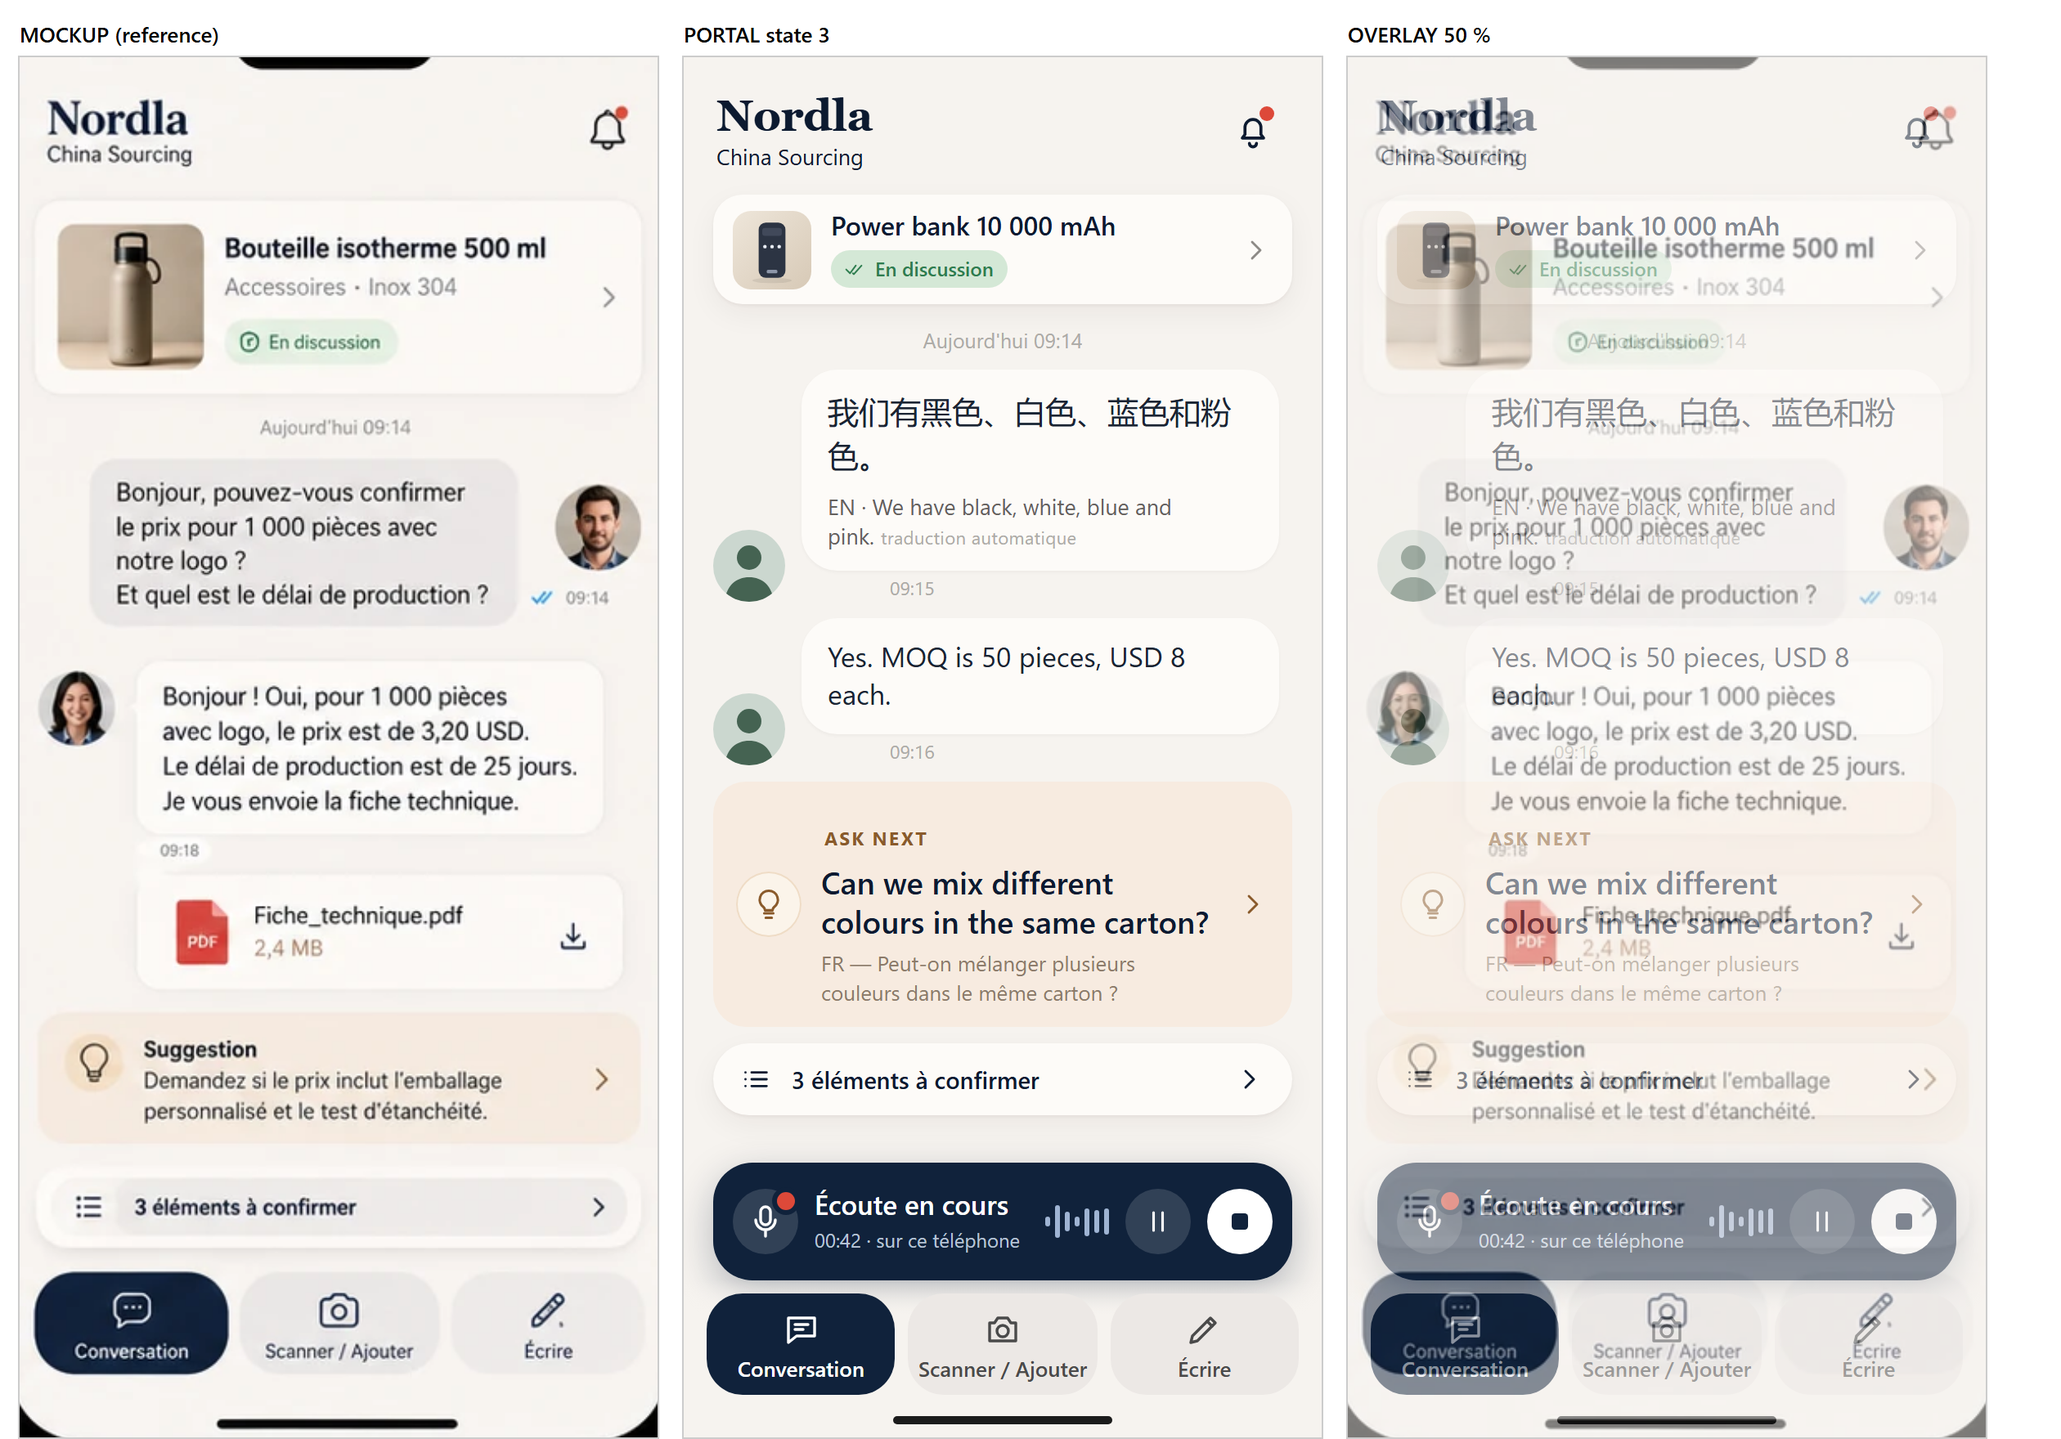
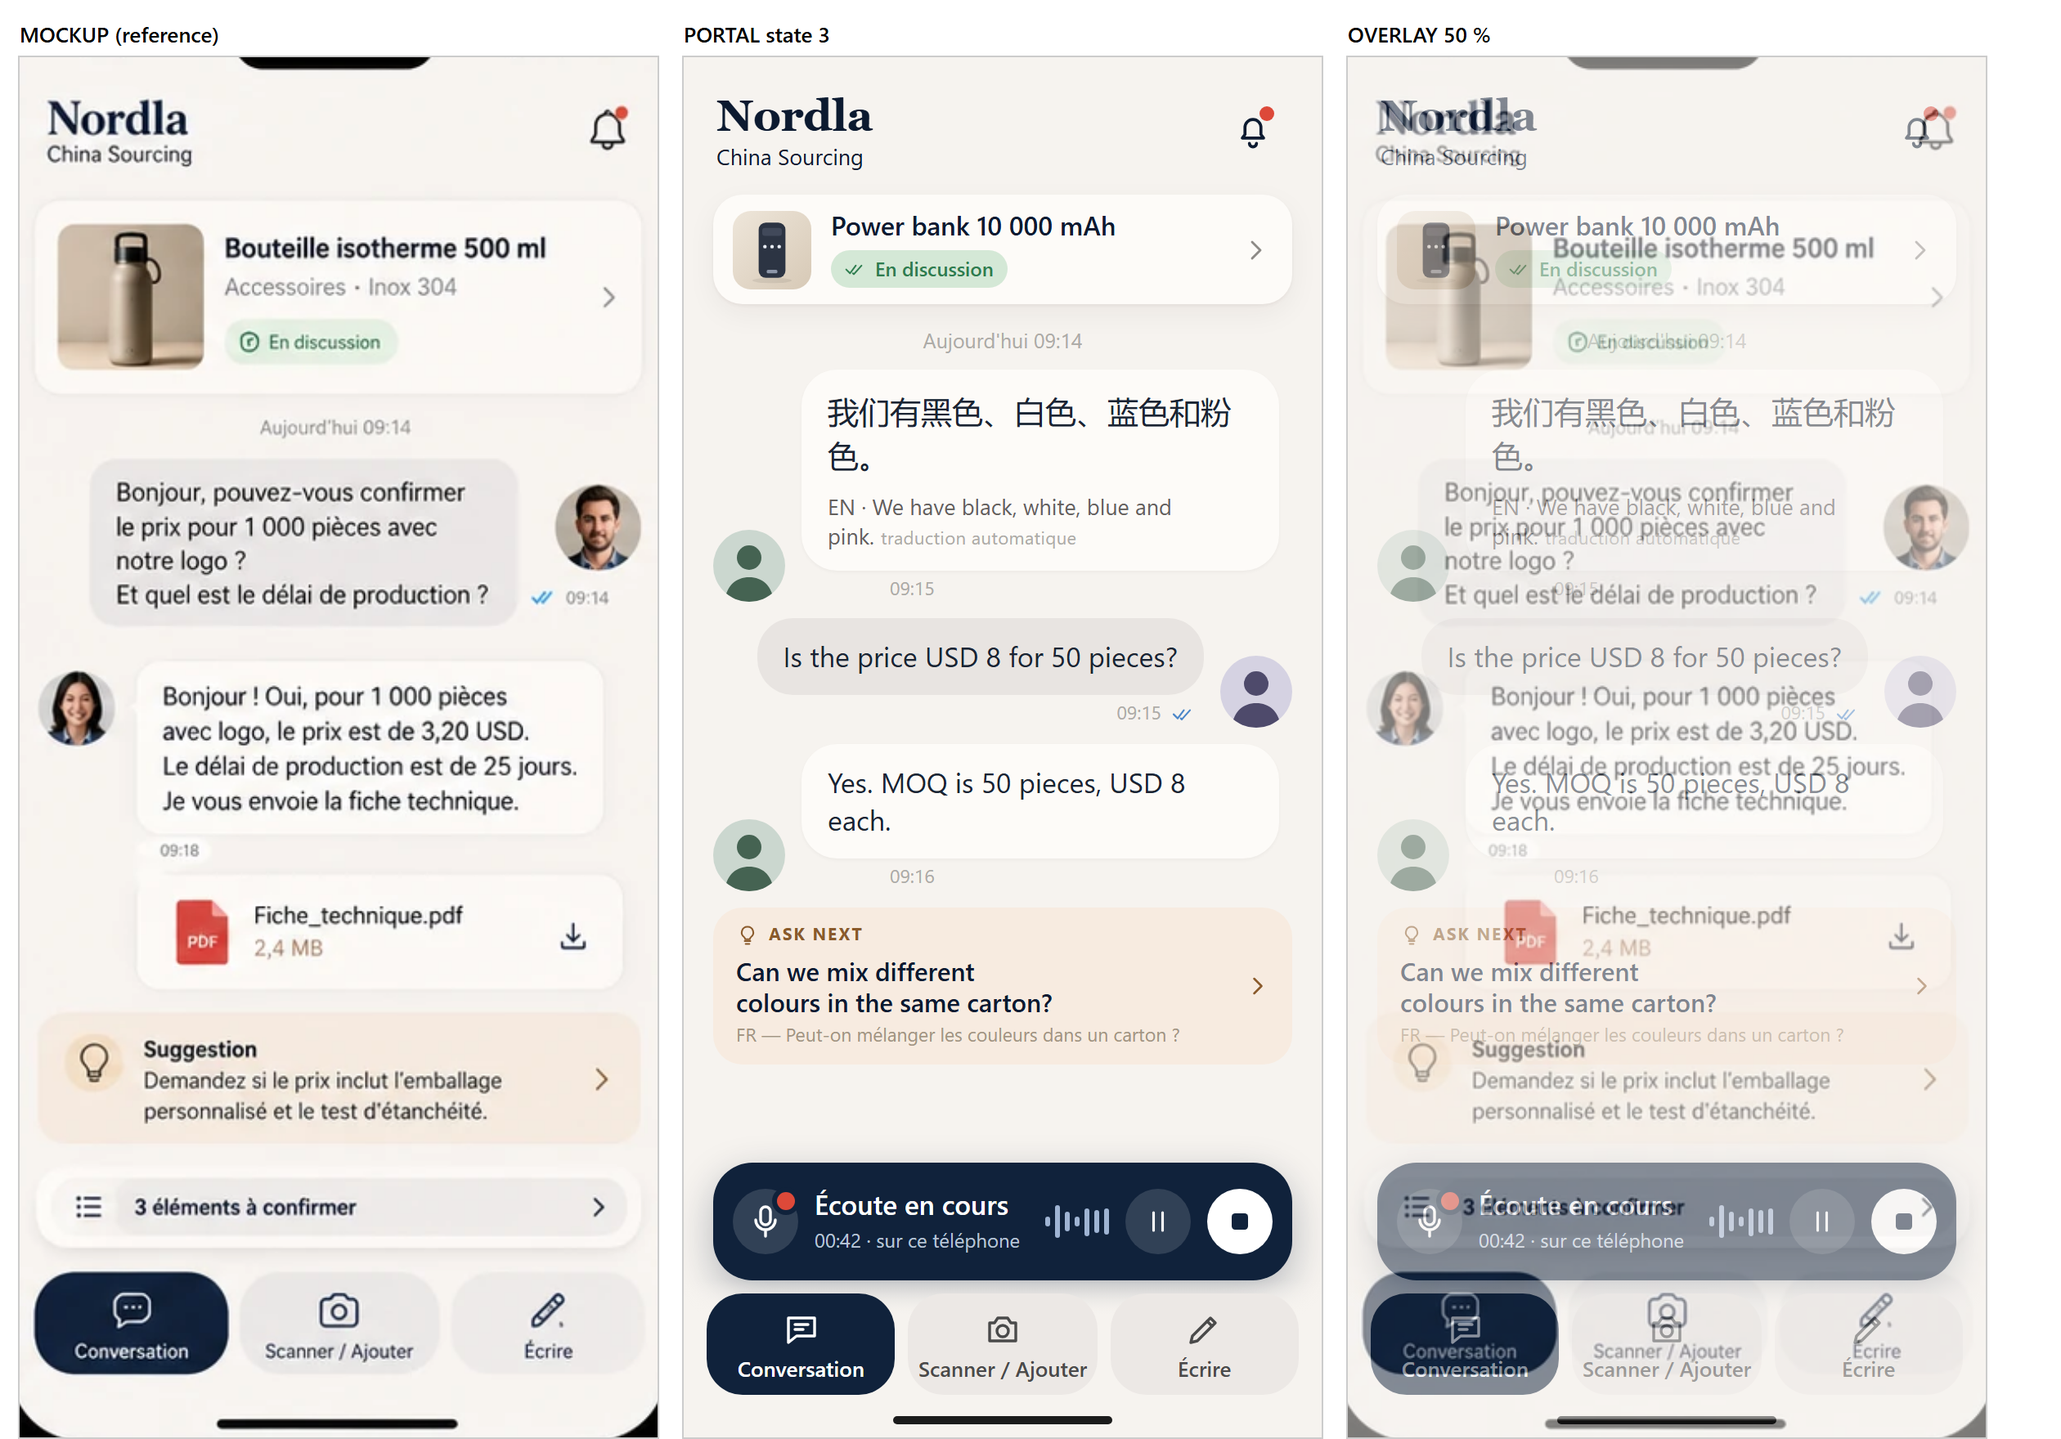
docs(sourcing): fidelity portal V2 (discreet ASK NEXT, no confirmation row in the flow, recomposed end of conversation, richer product card)
Static mock-up only; nothing wired.

diff --git a/docs/fidelity-portal/portal.js b/docs/fidelity-portal/portal.js
@@ -17,30 +17,31 @@ const OK = '<span class="gl ok">' + ICON_CHECK + '</span>', CL = '<span class="g
 const wave = (n = 7) => `<div class="wave" aria-hidden="true">${Array.from({ length: n }, (_, i) => `<s style="height:${6 + Math.round(Math.abs(Math.sin(i * 1.7) + Math.sin(i * .6)) * 9)}px"></s>`).join('')}</div>`;
 
 const header = () => `<div class="hd"><div class="brand">Nordla<small>China Sourcing</small></div><button class="bell" aria-label="Alertes">${ICON.bell}<i></i></button></div>`;
-const product = (o = {}) => `<div class="prod ${o.mini ? 'mini' : ''}"><div class="ph">${bottle}</div><div class="t"><h1>Power bank 10 000 mAh</h1>${o.mini ? '' : '<p class="s">Accessoires électroniques</p>'}<span class="pill ${o.state === 'Nouveau' ? 'new' : ''}">${o.state === 'Nouveau' ? '' : ICON.check.replace('15', '14')}${o.state}</span></div>${ICON.chev}</div>`;
+const product = (o = {}) => `<div class="prod ${o.mini ? 'mini' : ''} ${o.hero ? 'hero' : ''}"><div class="ph">${bottle}</div><div class="t"><h1>Power bank 10&nbsp;000&nbsp;mAh</h1>${o.mini ? '' : '<p class="s">Accessoires électroniques</p>'}<span class="pill ${o.state === 'Nouveau' ? 'new' : ''}">${o.state === 'Nouveau' ? '' : ICON.check.replace('15', '14')}${o.state}</span></div>${ICON.chev}</div>`;
 const nav = () => `<div class="nav"><button class="on">${ICON.chat}Conversation</button><button>${ICON.camera}Scanner / Ajouter</button><button>${ICON.pencil}Écrire</button></div><div class="hi"></div>`;
 const sup = (inner, time, extra = '') => `<div class="row sup"><div class="av">${AV_SUP}</div><div class="stack"><div class="b ${extra}">${inner}</div><div class="meta">${time}</div></div></div>`;
 const me = (inner, time) => `<div class="row me"><div class="stack"><div class="b">${inner}</div><div class="meta">${time} ${ICON.check}</div></div><div class="av">${AV_ME}</div></div>`;
 const conf = (n) => `<div class="conf">${ICON.list}<span>${n} éléments à confirmer</span>${ICON.chev}</div>`;
 const dock = () => `<div class="dock"><div class="rec">${ICON.mic.replace('26', '24')}<i></i></div><div class="t"><b>Écoute en cours</b><small>00:42 · sur ce téléphone</small></div>${wave()}<button class="dk" aria-label="Pause">${ICON.pause}</button><button class="dk stop" aria-label="Terminer">${ICON.stop}</button></div>`;
-const suggest = () => `<div class="sug"><div class="bulb">${ICON.bulb}</div><div style="flex:1;min-width:0"><div class="k">ASK NEXT</div><p class="en">Can we mix different colours in the same carton?</p><p class="fr">FR — Peut-on mélanger plusieurs couleurs dans le même carton ?</p></div>${ICON.chev}</div>`;
+const suggest = () => `<div class="sug"><div class="sg"><div class="k"><span class="bl">${ICON.bulb}</span>ASK NEXT</div><p class="en">Can we mix different colours in the same carton?</p><p class="fr">FR — Peut-on mélanger les couleurs dans un carton ?</p></div>${ICON.chev}</div>`;
 const zhBubble = sup('我们有黑色、白色、蓝色和粉色。<span class="d">EN · We have black, white, blue and pink.<em>traduction automatique</em></span>', '09:15', 'zh');
 const q1 = me('Is the price USD 8 for 50 pieces?', '09:15');
 const a1 = sup('Yes. MOQ is 50 pieces, USD 8 each.', '09:16');
 const file = '<div class="file"><div class="ic">PDF</div><div><b>PB-X200_datasheet.pdf</b><span>1,8 Mo · reçu à 09:16</span></div><div class="dl">' + ICON.dl + '</div></div>';
 
 const frames = {
-  s1: `<div class="scroll">${header()}${product({ state: 'Nouveau' })}</div>
+  s1: `<div class="scroll">${header()}${product({ state: 'Nouveau', hero: true })}</div>
     <div class="start"><p>Parlez naturellement avec le fournisseur.<br>Nordla écoute et ne vous interrompt pas.</p><button class="go"><span class="mic">${ICON.mic}</span>Démarrer la conversation</button></div>${nav()}`,
-  s2: `<div class="scroll">${header()}${product({ mini: true, state: 'En discussion' })}<div class="date">Aujourd'hui 09:14</div>${zhBubble}${q1}${a1}${file}${conf(3)}</div>${dock()}${nav()}`,
-  s3: `<div class="scroll">${header()}${product({ mini: true, state: 'En discussion' })}<div class="date">Aujourd'hui 09:14</div>${zhBubble}${a1}${suggest()}${conf(3)}</div>${dock()}${nav()}`,
-  s4: `<div class="scroll">${header()}<div class="alert">${ICON.warn}<div style="flex:1"><span>MOQ : avant 50, maintenant 100</span><small>Contradiction à clarifier</small></div>${ICON.chev}</div>${product({ mini: true, state: 'En discussion' })}<div class="date" style="margin-top:10px">Aujourd'hui 09:14</div>${q1}${a1}${sup('Sorry, the MOQ is 100 pieces for this price.', '09:18', 'hl')}${conf(4)}</div>${dock()}${nav()}`,
+  s2: `<div class="scroll">${header()}${product({ mini: true, state: 'En discussion' })}<div class="date">Aujourd'hui 09:14</div>${zhBubble}${q1}${a1}${file}</div>${dock()}${nav()}`,
+  s3: `<div class="scroll">${header()}${product({ mini: true, state: 'En discussion' })}<div class="date">Aujourd'hui 09:14</div>${zhBubble}${q1}${a1}${suggest()}</div>${dock()}${nav()}`,
+  s4: `<div class="scroll">${header()}<div class="alert">${ICON.warn}<div style="flex:1"><span>MOQ : avant 50, maintenant 100</span><small>Contradiction à clarifier</small></div>${ICON.chev}</div>${product({ mini: true, state: 'En discussion' })}<div class="date" style="margin-top:10px">Aujourd'hui 09:14</div>${q1}${a1}${sup('Sorry, the MOQ is 100 pieces for this price.', '09:18', 'hl')}</div>${dock()}${nav()}`,
   s5: `<div class="under"><div class="scroll">${header()}${product({ mini: true, state: 'En discussion' })}<div class="date">Aujourd'hui 09:14</div>${zhBubble}${q1}</div>${nav()}</div><div class="dim"></div>
     <div class="sheet"><div class="grab"></div><div class="sh"><div><h2>Conversation terminée</h2><p>12 min · enregistrée sur ce téléphone</p></div><button class="x" aria-label="Fermer">${ICON.x}</button></div>
-      <div class="k first">Ce que j'ai compris</div><div class="card"><div class="li"><span class="g">${CL}</span><span>MOQ <b>50 pièces</b></span></div><div class="li"><span class="g">${CL}</span><span>50 pcs <b>8 USD</b> · 100 pcs <b>7,20 USD</b></span></div><div class="li"><span class="g">${CL}</span><span>FOB <b>Shenzhen</b></span></div><div class="li"><span class="g">${CL}</span><span>Délai <b>15 jours</b></span></div></div>
-      <div class="k">Il manque encore</div><div class="card"><div class="li"><i class="dot"></i><span>Prix à 300 pièces</span></div><div class="li"><i class="dot"></i><span>Rapport de test UN38.3 du modèle exact</span></div><div class="li"><i class="dot"></i><span>Mélange des couleurs dans un carton</span></div></div>
-      <div class="k">Prochaine étape</div><div class="next flat"><span class="ic">${ICON.msg}</span><span>Demander le mélange des couleurs, puis les rapports de test.</span></div>
-      <div class="btns"><button class="btn">Tout confirmer (4)</button><button class="btn sec">Revoir un par un</button></div></div>`,
+      <div class="k first">Ce que Nordla a compris</div><div class="card"><div class="li"><span class="g">${CL}</span><span>MOQ <b>50 pièces</b></span></div><div class="li"><span class="g">${CL}</span><span>50 pcs <b>8 USD</b> · 100 pcs <b>7,20 USD</b></span></div><div class="li"><span class="g">${CL}</span><span>FOB <b>Shenzhen</b> · délai <b>15 jours</b></span></div></div>
+      <div class="k">Ce qui manque réellement</div><div class="card"><div class="li"><i class="dot"></i><span>Prix à 300 pièces</span></div><div class="li"><i class="dot"></i><span>Rapport de test UN38.3 du modèle exact</span></div></div>
+      <div class="k">À clarifier</div><div class="crit"><div class="ct">${ICON.warn.replace('22', '20')}<span>MOQ : <b>50</b> puis <b>100</b></span></div><div class="cb"><button>Garder 50</button><button>Prendre 100</button></div></div>
+      <div class="k">Prochaine étape</div><div class="next flat"><span class="ic">${ICON.msg}</span><span>Faire confirmer le MOQ, puis demander le mélange des couleurs.</span></div>
+      <button class="lnk">Ouvrir l'évaluation d'achat ${ICON.chev}</button></div>`,
   s6: `<div class="sheet" style="top:0;border-radius:0;box-shadow:none;padding-top:22px"><div class="sh"><div><h2>Évaluation d'achat</h2><p>Power bank 10 000 mAh · Supplier A</p></div><button class="x" aria-label="Fermer">${ICON.x}</button></div>
       <div class="bar-amber">${ICON.clock.replace('17', '22')}<span>3 éléments à confirmer</span></div>
       <div class="k">Statut</div><div class="steps"><div class="on"><i></i>Discussion</div><div><i></i>Échantillons</div><div><i></i>Validation</div><div><i></i>Commande</div></div>

diff --git a/docs/fidelity-portal/portal.css b/docs/fidelity-portal/portal.css
@@ -107,3 +107,21 @@ svg{display:block}
 .kv{grid-template-columns:24px 128px 1fr;padding:5px 0}.steps{margin-top:2px}.sup2 .av{width:56px;height:56px}
 .sheet .sh h2{font-size:22px}.bar-amber{margin-top:12px;height:44px}
 .kv{grid-template-columns:24px 142px 1fr}
+/* ---- V2 ---- */
+/* screen 1: more presence for the product (same card, bigger photo, finer shadow), the empty space stays empty */
+.prod.hero{padding:16px;gap:16px;border-radius:26px;box-shadow:0 1px 2px rgba(30,24,16,.06),0 14px 34px rgba(30,24,16,.09)}
+.prod.hero .ph{width:112px;height:112px;border-radius:20px;box-shadow:0 6px 16px rgba(30,24,16,.16)}
+.prod.hero h1{font-size:20px;white-space:normal;line-height:1.2}.prod.hero .s{font-size:14.5px;margin-top:4px}.prod.hero .pill{margin-top:12px}
+/* screen 3: discreet suggestion (was 150 px) */
+.sug{align-items:center;gap:10px;padding:10px 12px 10px 14px;border-radius:18px;margin-top:4px}
+.sug .sg{flex:1;min-width:0}
+.sug .k{display:flex;align-items:center;gap:6px;margin:0;padding:0;border:0;font:700 10.5px/1 system-ui;letter-spacing:.09em;color:var(--sug-ink);text-transform:none}.sug .k .bl{display:inline-flex;color:var(--sug-ink)}.sug .k svg{width:14px;height:14px}
+.sug .en{margin:5px 0 0;font:600 15.5px/1.28 system-ui;color:var(--navy-ink)}
+.sug .fr{margin:3px 0 0;font-size:11.5px;line-height:1.3;color:#a39482;white-space:nowrap;overflow:hidden;text-overflow:ellipsis}
+.sug .chev{width:18px;height:18px}
+/* screen 5: critical point with TARGETED choices, no form */
+.crit{background:var(--amber-bg);border-radius:16px;padding:12px 14px}.crit .ct{display:flex;align-items:center;gap:10px;color:var(--amber);font-size:15.5px}.crit .ct b{color:var(--navy-ink)}
+.cb{display:flex;gap:8px;margin-top:10px}.cb button{flex:1;height:44px;border-radius:14px;border:1px solid #e3cfa8;background:#fffaf0;color:var(--navy-ink);font:600 15px/1 system-ui}
+.lnk{margin-top:16px;display:flex;align-items:center;justify-content:space-between;width:100%;height:50px;border:0;border-radius:16px;background:var(--pill);color:var(--navy-ink);font:500 15.5px/1 system-ui;padding:0 16px}
+.sug .en{text-wrap:balance}
+.prod.hero .ph{width:104px;height:104px}.prod.hero .s{white-space:nowrap;font-size:14px}

diff --git a/docs/CHINA-SOURCING-FIDELITY-REPORT-V2.md b/docs/CHINA-SOURCING-FIDELITY-REPORT-V2.md
@@ -1,0 +1,50 @@
+# China Sourcing - portail de fidélité V2 (390 px, statique)
+
+Suite de `CHINA-SOURCING-FIDELITY-REPORT.md` (V1). Même portail statique `docs/fidelity-portal/`, données fictives, **aucun branchement** (ni moteur, ni micro, ni transcription, ni traduction, ni provider). Captures dans `docs/fidelity-portal/shots/` : `s1.png` à `s6.png`, `s6-full.png`, `overview.png`, comparaisons `compare-s1-vs-mockup.png`, `compare-s3-vs-mockup.png` (mockup | portail | superposition), `compare-s6-vs-mockup-panel.png`.
+
+## 1. Vos huit points, un par un
+
+| # | Demande | Fait | Mesure ou constat |
+|---|---|---|---|
+| 1 | Garder l'architecture des six écrans | oui | mêmes six états, même barre du bas, même dock |
+| 2 | Écran 1 : garder l'espace, plus de présence pour la carte et la photo | oui | photo de 84 à 104 px (coins de 20 px, ombre douce), carte plus ample (rayon 26 px, ombre plus fine), titre 20 px sur deux lignes sans couper « 10 000 » ; **le vide n'est pas rempli** |
+| 3 | Écran 3 : `ASK NEXT` nettement plus basse, anglais principal, français très discret | oui | **96,6 px de haut contre 150 px en V1** (le mockup : environ 77 px) ; « ASK NEXT » en petit repère avec l'ampoule, anglais 15,5 px sur deux lignes équilibrées, français 11,5 px sur une ligne grise |
+| 4 | Retirer « N éléments à confirmer » du flux des écrans 2 et 3 | oui, **et de l'écran 4** | plus aucune rangée de confirmation dans la conversation ; seul le bandeau de contradiction (écran 4) reste immédiatement visible |
+| 5 | Écran 5 recomposé : compris / manque réellement / contradictions-points critiques / prochaine étape, sans « Tout confirmer » | oui | quatre blocs ; **« Tout confirmer (4) » et « Revoir un par un » supprimés** ; une seule confirmation ciblée : la contradiction, avec « Garder 50 » / « Prendre 100 » ; le bas est une simple ligne « Ouvrir l'évaluation d'achat › » |
+| 6 | Frise Discussion / Échantillons / Validation / Commande seulement dans l'Évaluation d'achat | oui | elle n'apparaît nulle part ailleurs |
+| 7 | Dock d'écoute | conservé | inchangé (pause, terminer, « Écoute en cours », durée, « sur ce téléphone ») |
+| 8 | Scanner / Ajouter et Écrire en alternatives secondaires | conservé | même barre à trois entrées, Conversation active |
+
+## 2. Écran 5 : ce qui a changé et pourquoi
+- **Ce que Nordla a compris** : trois lignes, chacune marquée ◌ (annoncé par le fournisseur), sans bouton.
+- **Ce qui manque réellement** : deux points seulement (prix à 300 pièces, rapport UN38.3 du modèle exact), plus de liste exhaustive.
+- **À clarifier** : le point critique (MOQ 50 puis 100) avec deux boutons ciblés. Si aucune contradiction n'existe, ce bloc n'apparaît pas.
+- **Prochaine étape** : une phrase.
+- Plus de formulaire, plus de bouton qui confirme en bloc.
+
+## 3. Mesures V2 contre mockup (zones comparables)
+| Mesure | Mockup (échelle ≈ 1,02) | V2 | V1 |
+|---|---|---|---|
+| carte suggestion : hauteur | 79 → ≈ 77 | **96,6** | 150 |
+| carte suggestion : largeur / marges | ≈ 356 / 18 | 354 / 18 | 354 / 18 |
+| pastille active de la barre du bas | ≈ 114 × 60 | 115,3 × 62 | 115,3 × 62 |
+| espacement des pastilles | 8 | 8 | 8 |
+Les couleurs de la section 2.1 du rapport V1 ne changent pas.
+
+## 4. Écarts qui subsistent volontairement
+1. La suggestion reste un peu plus haute que celle du mockup (+20 px) : deux lignes d'anglais plus une ligne française.
+2. Photos et avatars : illustrations vectorielles, pas de photos.
+3. Carte produit réduite en bandeau dans les écrans 2 à 4 (la carte ample n'est que sur l'écran 1).
+4. Dock d'écoute : absent du mockup (Voice First).
+5. Fil en chinois ou anglais d'origine avec ligne dérivée, au lieu du français des deux côtés.
+6. Frise de l'Évaluation d'achat : les trois étapes suivantes sont grisées et inertes.
+7. Écran 6 : « Prochaine étape » est à la limite des 844 px (défilement ; `s6-full.png`).
+8. Pas de cadre de téléphone ni de barre d'état ; pas de vue ordinateur ; icônes dessinées ici ; police de repli (Noto Serif / Georgia).
+
+## 5. Ce que la V2 laisse ouvert (à trancher, pas décidé par moi)
+- **Où vit la confirmation** maintenant qu'elle a quitté le flux : dans la V2, un fait annoncé reste ◌ tant qu'il n'est pas confirmé ; les confirmations passent par le point ciblé de l'écran 5 et par l'Évaluation d'achat (barre « N éléments à confirmer », écran 6). Aucun compteur ne reste dans la conversation. Faut-il un signe très discret quelque part (par exemple sur le bandeau produit) ou rien du tout ?
+- **Quand** une confirmation doit être ciblée à la fin : seulement les contradictions et les valeurs ambiguës ? Les faits propres restent-ils ◌ sans action ?
+- **Accès à l'Évaluation d'achat pendant la conversation** : le bandeau produit (chevron) est prévu, à confirmer.
+
+## 6. Non vérifié
+Aucun test sur téléphone ; captures produites avec Edge simulant 390 × 844 (×2) ; proportions du mockup estimées sur une image compressée (quelques pixels d'incertitude).
